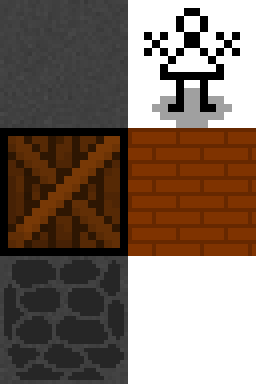
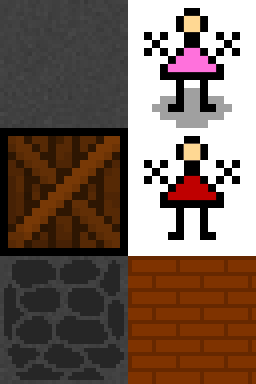
0.0.13 "Да будут всратые дауны!"

diff --git a/scripts/game.js b/scripts/game.js
@@ -32,9 +32,10 @@ var idMap = [ // Массив с idMap объектов на карте
 /* 0. Пол. Скин: асфальт */		{solid: 0, img: new title("title.png",0,0)},
 /* 1. Игрок */					{solid: 1, img: new title("title.png",16,0)},
 /* 2. Ящик */					{solid: 1, img: new title("title.png",0,16)},
-/* 3. Лже NPC */				{solid: 1, img: new title("title.png",16,0)},
+/* 3. NPC */					{solid: 1, img: new title("title.png",16,0)},
 /* 4. Пол. Скин: дорога. */		{solid: 0, img: new title("title.png",0,32)},
-/* 5. Пол. Скин: дом */			{solid: 0, img: new title("title.png",16,16)}
+/* 5. Пол. Скин: дом */			{solid: 0, img: new title("title.png",16,32)},
+/* 6. BOT1 */					{solid: 1, img: new title("title.png",16,16)}
 ]
 
 var size = 64; // Размер спрайтов.
@@ -50,6 +51,13 @@ var triggers = [ // Массив триггеров
 var npc = [ // Массив NPC
 	//[room, trigger, posNPC, id]
 	[2, {x:3,y:1,w:2,h:1}, {x:4,y:1,w:0,h:0}, 0]
+]
+
+var bots = [ // Массив ботов
+	//[room, posBOT]
+	[0, {x:2,y:3}],
+	[1, {x:2,y:5}],
+	[2, {x:4,y:5}]
 ]
 
 let playerPos = [ // Позиции играка для каждой локации.
@@ -70,28 +78,25 @@ var player = {
 let fakeTick = function(e) { // Тик или как это ещё можно обозвать?
 	let cX = e.layerX; // Я не индус, буду делать... А-а-а!!!
 	let cY = e.layerY;
-	
-	let tmp = searchPlayer();
 
 	move(cX, cY); // Сразу же лвигаем персонажа
+	let tmp = searchPlayer();
 
 	for(let i in triggers){ // Перебераем триггеры локаций
-		if( collision({x: searchPlayer()[0], y: searchPlayer()[1]}, triggers[i][0]) && room==triggers[i][1] && collision({x: Math.floor(cX/size), y: Math.floor(cY/size)}, triggers[i][0])){
+		if( collision({x: tmp[0], y: tmp[1]}, triggers[i][0]) && room==triggers[i][1] && collision({x: Math.floor(cX/size), y: Math.floor(cY/size)}, triggers[i][0])){
 			room=triggers[i][2]; // Устанавливаем нужную локацию
 			break;
 		}
 	}
 	for(let i in npc){ // Перебераем NPC
-		if( room==npc[i][0] && collision({x: searchPlayer()[0], y: searchPlayer()[1]}, npc[i][1]) && collision({x: Math.floor(cX/size), y: Math.floor(cY/size)}, npc[i][2])){
-			bot(npc[i][3], tmp); // Вызываем функцию
+		if( room==npc[i][0] && collision({x: tmp[0], y: tmp[1]}, npc[i][1]) && collision({x: Math.floor(cX/size), y: Math.floor(cY/size)}, npc[i][2])){
+			NPC(npc[i][3], tmp); // Вызываем функцию
 			break;
 		}
 	}
 
 	drawMap(); // Рисуем карту
 }
-
-let realTick = function() {}
 
 var startGame = function(){ // Функция запуска игры
 	game_cnv.removeEventListener("mouseup", mouseup); // Удаляем все слушатели
@@ -113,7 +118,35 @@ var startGame = function(){ // Функция запуска игры
 
 
 
-let bot = function(id, oldPos) { // Обработка ботов. Тут без комментариев
+let bot = function() {
+	for(let i in bots){
+		if(bots[i][0]==room){
+			let x = (randomInt(1)==1)?bots[i][1].x-1:bots[i][1].x+1;
+			let y = (randomInt(1)==1)?bots[i][1].y-1:bots[i][1].y+1;
+
+			let botPos = bots[i][1];
+
+			console.log(x,playerPos[room].x,y,playerPos[room].y);
+			if (x==playerPos[room].x && y==playerPos[room].y){
+				player.hp-=75;
+			}
+
+			// Передвижение бота
+			if (canGoBot(botPos, botPos.x, y) && canGoBot(botPos, x, botPos.y)) {
+				(randomInt(1)==1)?bots[i][1].y=y:bots[i][1].x=x;
+			} else if (canGoBot(botPos, botPos.x, y)) {
+				bots[i][1].y=y;
+			} else if (canGoBot(botPos, x, botPos.y)) {
+				bots[i][1].x=x;
+			}
+
+
+		}
+	}
+}
+
+
+let NPC = function(id, oldPos) { // Обработка ботов. Тут без комментариев
 	playerPos[room]={x:oldPos[0],y:oldPos[1]};
 	switch(id){
 		case 0:
@@ -123,17 +156,42 @@ let bot = function(id, oldPos) { // Обработка ботов. Тут без
 }
 
 
+let realTick = function() {
+	bot();
+}
 
 // Далее идут какие-то функции. Я бы сказал вспомогательные, но с ними возишься дольше.
 let canGo = function(x, y) { // Особенно с этой
-	if(idMap[map[room][y][x]].solid){return false;} // Не переместиться в стенку
 	let pos = searchPlayer(); // Находим персонажа
+
+	if(x==pos[0] && y==pos[1]){return false;} // Не переместиться в себя
+	for(let i in bots){
+		if(bots[i][0]==room && x==bots[i][1].x && y==bots[i][1].y){return false;} // Не переместиться в бота
+	}
+	if(idMap[map[room][y][x]].solid){return false;} // Не переместиться в стенку
+
 	if( Math.abs(x-pos[0]) + Math.abs(y-pos[1]) == 2) { // Если ходит по диагонали
 		if(map[room][pos[1]][(+pos[0]+ +(x-pos[0]))]==2 && map[room][(+pos[1]+ +(y-pos[1]))][pos[0]]==2){ // И ему мещают ящики
 			return false; // То он не идёт никуда
 		}
 	}
+
 	if( Math.abs(x-pos[0]) <= 1 && Math.abs(y-pos[1]) <= 1) return true; // А если в рядом кликнули, то пусть идёт
+
+	return false; // Ну и если всё пошло не так, то ходить нельзя.
+}
+let canGoBot = function(pos, x, y) {
+	if (x<0||x>7||y<0||y>7) {return false;}
+	if (x==playerPos[room].x&&y==playerPos[room].y) {return false;}
+
+	for(let i in bots){
+		if(x==bots[i][1].x && y==bots[i][1].y){return false;} // Не переместиться в бота
+	}
+
+	if(idMap[map[room][y][x]].solid){return false;} // Не переместиться в стенку
+
+	if( Math.abs(x-pos.x) <= 1 && Math.abs(y-pos.y) <= 1) return true; // А если рядом, то пусть идёт
+
 	return false; // Ну и если всё пошло не так, то ходить нельзя.
 }
 
@@ -147,6 +205,12 @@ let drawMap = function() { // Отрисовка карты
 	
 	for(let i in npc){
 		if(npc[i][0]==room) idMap[3].img.draw(game_cnv, npc[i][2].x*size, npc[i][2].y*size, size, size);
+	}
+
+	for(let i in bots){
+		if (bots[i][0]==room) {
+			idMap[6].img.draw(game_cnv, bots[i][1].x*size, bots[i][1].y*size, size, size);
+		}
 	}
 	
 	idMap[1].img.draw(game_cnv, playerPos[room].x*size, playerPos[room].y*size, size, size);

diff --git a/scripts/gui.js b/scripts/gui.js
@@ -10,10 +10,11 @@ let tab = 0; // Открытая вкладка
 
 
 window.addEventListener("load", ()=>{
+	setInterval(drawInv, 10)
 	drawInv();
 })
 
-let drawInv = function() {
+var drawInv = function() {
 	bg.draw(gui_cnv);
 
 	for(let i in tabs){
@@ -21,7 +22,7 @@ let drawInv = function() {
 	}
 	switch(tab){
 		case 0:
-			text(gui_cnv,"HP: "+player.hp,32,32+32,"#333","32px monospace");
+			(player.hp<=0)?text(gui_cnv,"You die",32,32+32,"#A33","32px monospace"):text(gui_cnv,"HP: "+player.hp,32,32+32,"#333","32px monospace");
 			text(gui_cnv,"MP: "+player.mp,32,32+64,"#333","32px monospace");
 
 			text(gui_cnv,"EXP: "+player.exp,32,128+32,"#333","32px monospace");
